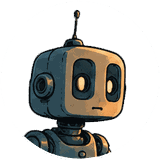
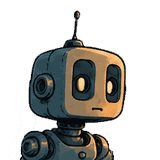
feat(profile): the robot sits in the circle rather than floating in it
Redrawn so it runs to the bottom edge, which means the circle crops it the way
a photograph would instead of leaving it a slice of a smaller circle. The pad
to square is taken off the top for the same reason: centring it would lift the
robot a pixel clear of the edge and leave a hairline under it.

And the picker says Initial, which is what one name gives.

diff --git a/src/renderer/components/Settings/tabs/ProfileTab.test.tsx b/src/renderer/components/Settings/tabs/ProfileTab.test.tsx
@@ -48,10 +48,10 @@ function offered(): string[] {
 }
 
 describe("the avatar picker", () => {
-  it("offers the initials and the robot on a machine with nothing else", () => {
+  it("offers the initial and the robot on a machine with nothing else", () => {
     render(<ProfileTab />)
 
-    expect(offered()).toEqual(["Initials", "The Tova robot"])
+    expect(offered()).toEqual(["Initial", "The Tova robot"])
   })
 
   it("marks the one in use", () => {
@@ -85,7 +85,7 @@ describe("the avatar picker", () => {
     store("initials", { system: "data:system", custom: "data:custom" })
     render(<ProfileTab />)
 
-    expect(offered()).toEqual(["Account", "Initials", "The Tova robot", "Picture"])
+    expect(offered()).toEqual(["Account", "Initial", "The Tova robot", "Picture"])
   })
 
   it("offers the account picture only where there is one to offer", () => {

diff --git a/src/shared/preferences.ts b/src/shared/preferences.ts
@@ -70,7 +70,7 @@ export type AvatarChoice = "initials" | "tova" | "system" | "custom"
  */
 export const AVATARS: { value: AvatarChoice; label: string; hint?: string }[] = [
   { value: "system", label: "Account", hint: "From your Mac account" },
-  { value: "initials", label: "Initials" },
+  { value: "initials", label: "Initial" },
   { value: "tova", label: "The Tova robot" },
   { value: "custom", label: "Picture", hint: "One you choose" }
 ]
